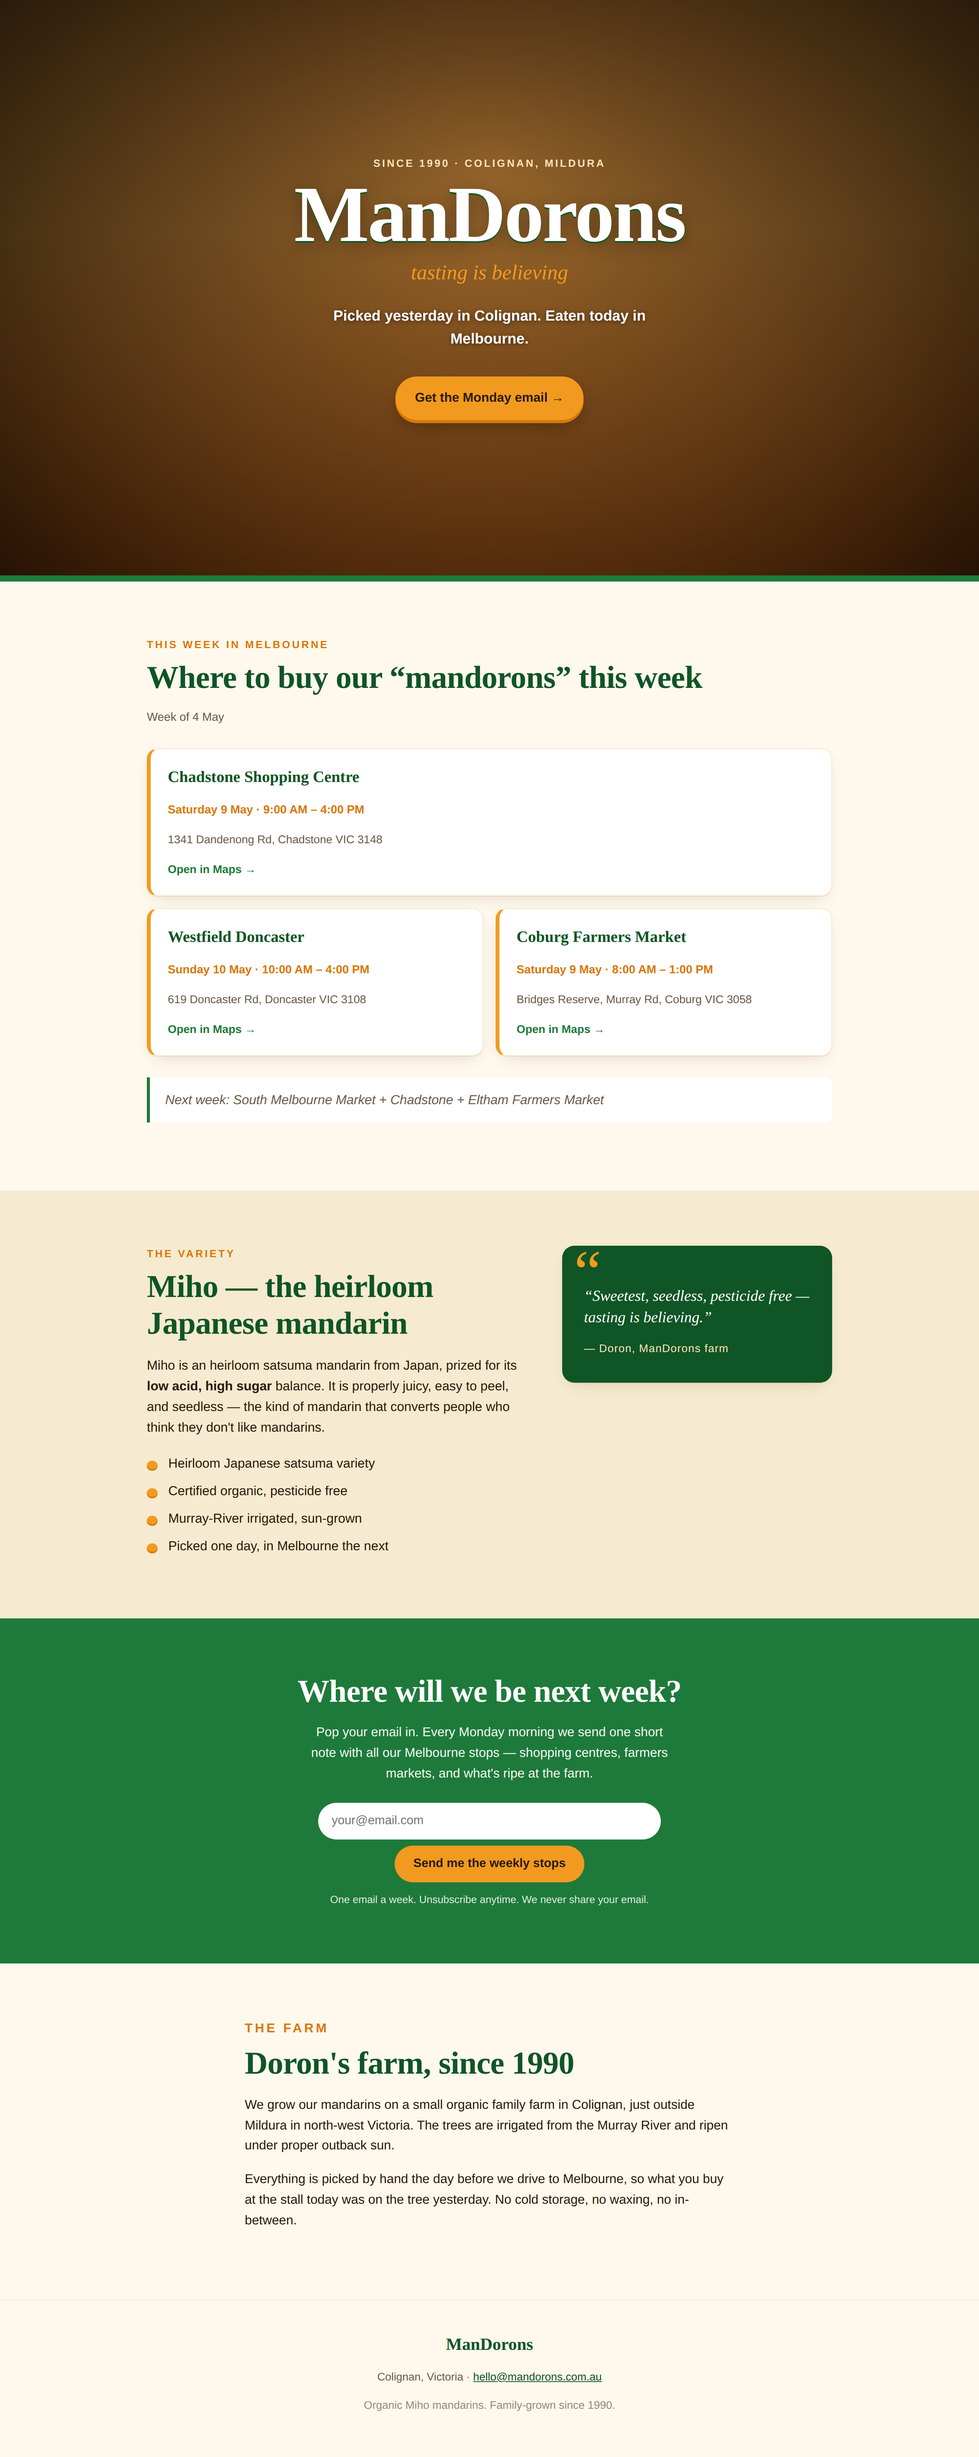
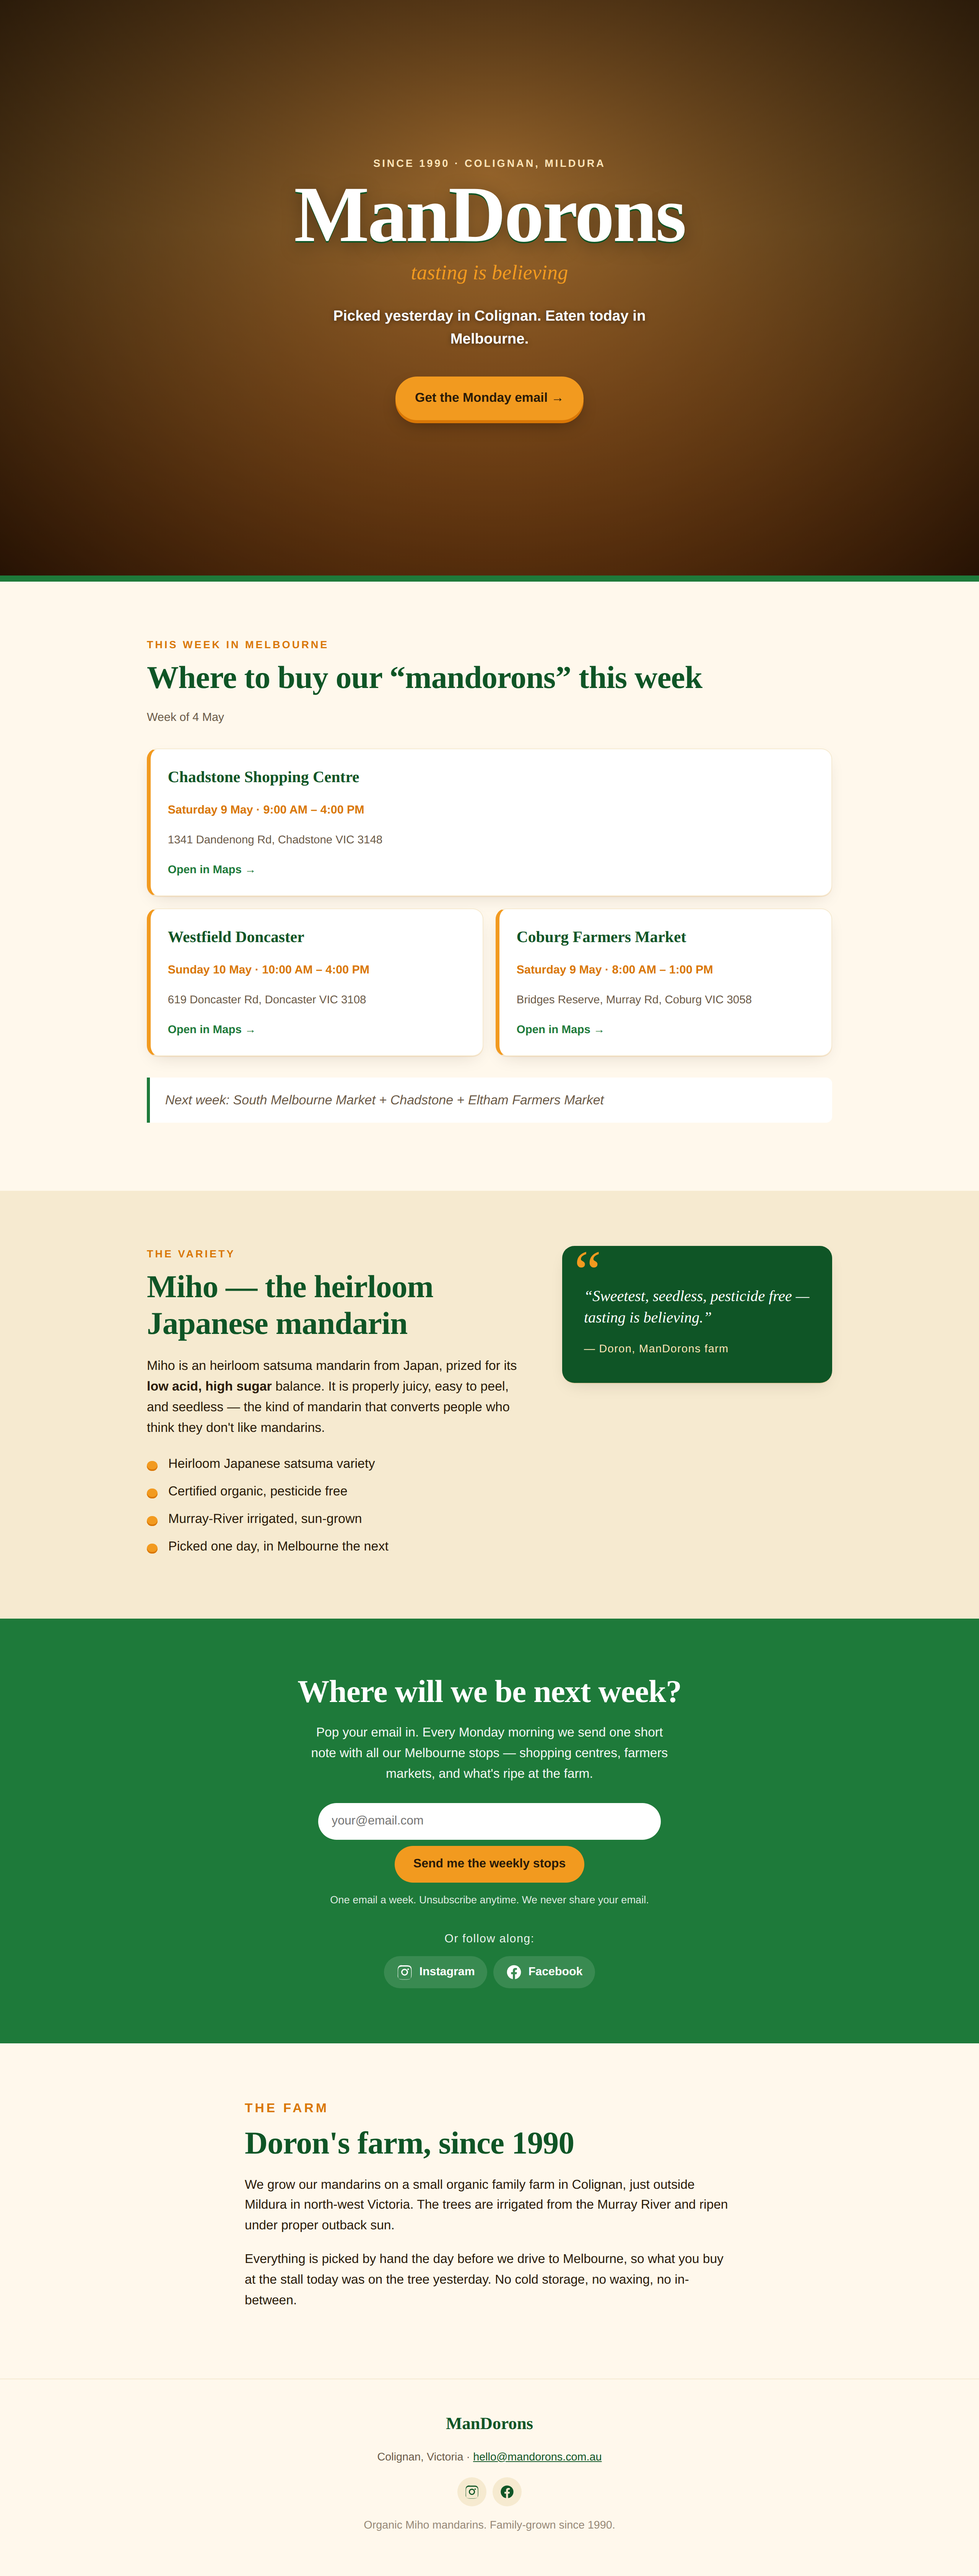
Add Instagram and Facebook links under signup and in footer
Pill-style buttons sit under the email form as a no-email alternative
("Or follow along") and reappear as small icon links in the footer.
Inline SVG icons keep the page request-free. Stub URLs use
instagram.com/mandorons and facebook.com/mandorons — replace with the
real handles when you have them.

https://claude.ai/code/session_01DrHGVFrWedQDMkFrRc2cos

Changed region(s): [[0.0, 0.218, 1.0, 0.9031], [0.3125, 0.0623, 0.7188, 0.1869], [0.375, 0.9343, 0.625, 0.9966]]

diff --git a/mandorons/index.html b/mandorons/index.html
@@ -137,6 +137,22 @@
         <button type="submit">Send me the weekly stops</button>
       </form>
       <p class="fineprint">One email a week. Unsubscribe anytime. We never share your email.</p>
+
+      <p class="signup-or">Or follow along:</p>
+      <ul class="socials" aria-label="Social media">
+        <li>
+          <a href="https://instagram.com/mandorons" target="_blank" rel="noopener" aria-label="ManDorons on Instagram">
+            <svg viewBox="0 0 24 24" width="22" height="22" aria-hidden="true"><path fill="currentColor" d="M12 2.2c3.2 0 3.6 0 4.8.1 1.2.1 1.8.2 2.2.4.6.2 1 .5 1.5 1s.8.9 1 1.5c.2.4.4 1 .4 2.2.1 1.2.1 1.6.1 4.8s0 3.6-.1 4.8c-.1 1.2-.2 1.8-.4 2.2-.2.6-.5 1-1 1.5s-.9.8-1.5 1c-.4.2-1 .4-2.2.4-1.2.1-1.6.1-4.8.1s-3.6 0-4.8-.1c-1.2-.1-1.8-.2-2.2-.4-.6-.2-1-.5-1.5-1s-.8-.9-1-1.5c-.2-.4-.4-1-.4-2.2C2.2 15.6 2.2 15.2 2.2 12s0-3.6.1-4.8c.1-1.2.2-1.8.4-2.2.2-.6.5-1 1-1.5s.9-.8 1.5-1c.4-.2 1-.4 2.2-.4C8.4 2.2 8.8 2.2 12 2.2zm0 1.8c-3.1 0-3.5 0-4.7.1-1.1.1-1.7.2-2.1.4-.5.2-.9.4-1.2.8-.4.4-.6.7-.8 1.2-.2.4-.3 1-.4 2.1-.1 1.2-.1 1.6-.1 4.7s0 3.5.1 4.7c.1 1.1.2 1.7.4 2.1.2.5.4.9.8 1.2.4.4.7.6 1.2.8.4.2 1 .3 2.1.4 1.2.1 1.6.1 4.7.1s3.5 0 4.7-.1c1.1-.1 1.7-.2 2.1-.4.5-.2.9-.4 1.2-.8.4-.4.6-.7.8-1.2.2-.4.3-1 .4-2.1.1-1.2.1-1.6.1-4.7s0-3.5-.1-4.7c-.1-1.1-.2-1.7-.4-2.1-.2-.5-.4-.9-.8-1.2-.4-.4-.7-.6-1.2-.8-.4-.2-1-.3-2.1-.4C15.5 4 15.1 4 12 4zm0 3.1a4.9 4.9 0 1 1 0 9.8 4.9 4.9 0 0 1 0-9.8zm0 1.8a3.1 3.1 0 1 0 0 6.2 3.1 3.1 0 0 0 0-6.2zm5.1-2.2a1.15 1.15 0 1 1 0 2.3 1.15 1.15 0 0 1 0-2.3z"/></svg>
+            <span>Instagram</span>
+          </a>
+        </li>
+        <li>
+          <a href="https://facebook.com/mandorons" target="_blank" rel="noopener" aria-label="ManDorons on Facebook">
+            <svg viewBox="0 0 24 24" width="22" height="22" aria-hidden="true"><path fill="currentColor" d="M22 12a10 10 0 1 0-11.6 9.9v-7H7.9V12h2.5V9.8c0-2.5 1.5-3.8 3.7-3.8 1.1 0 2.2.2 2.2.2v2.4h-1.2c-1.2 0-1.6.8-1.6 1.6V12h2.7l-.4 2.9h-2.3v7A10 10 0 0 0 22 12z"/></svg>
+            <span>Facebook</span>
+          </a>
+        </li>
+      </ul>
     </div>
   </section>
 
@@ -164,6 +180,10 @@
       Colignan, Victoria &middot;
       <a href="mailto:hello@mandorons.com.au">hello@mandorons.com.au</a>
     </p>
+    <ul class="socials foot-socials" aria-label="Social media">
+      <li><a href="https://instagram.com/mandorons" target="_blank" rel="noopener" aria-label="Instagram"><svg viewBox="0 0 24 24" width="20" height="20" aria-hidden="true"><path fill="currentColor" d="M12 2.2c3.2 0 3.6 0 4.8.1 1.2.1 1.8.2 2.2.4.6.2 1 .5 1.5 1s.8.9 1 1.5c.2.4.4 1 .4 2.2.1 1.2.1 1.6.1 4.8s0 3.6-.1 4.8c-.1 1.2-.2 1.8-.4 2.2-.2.6-.5 1-1 1.5s-.9.8-1.5 1c-.4.2-1 .4-2.2.4-1.2.1-1.6.1-4.8.1s-3.6 0-4.8-.1c-1.2-.1-1.8-.2-2.2-.4-.6-.2-1-.5-1.5-1s-.8-.9-1-1.5c-.2-.4-.4-1-.4-2.2C2.2 15.6 2.2 15.2 2.2 12s0-3.6.1-4.8c.1-1.2.2-1.8.4-2.2.2-.6.5-1 1-1.5s.9-.8 1.5-1c.4-.2 1-.4 2.2-.4C8.4 2.2 8.8 2.2 12 2.2zm0 1.8c-3.1 0-3.5 0-4.7.1-1.1.1-1.7.2-2.1.4-.5.2-.9.4-1.2.8-.4.4-.6.7-.8 1.2-.2.4-.3 1-.4 2.1-.1 1.2-.1 1.6-.1 4.7s0 3.5.1 4.7c.1 1.1.2 1.7.4 2.1.2.5.4.9.8 1.2.4.4.7.6 1.2.8.4.2 1 .3 2.1.4 1.2.1 1.6.1 4.7.1s3.5 0 4.7-.1c1.1-.1 1.7-.2 2.1-.4.5-.2.9-.4 1.2-.8.4-.4.6-.7.8-1.2.2-.4.3-1 .4-2.1.1-1.2.1-1.6.1-4.7s0-3.5-.1-4.7c-.1-1.1-.2-1.7-.4-2.1-.2-.5-.4-.9-.8-1.2-.4-.4-.7-.6-1.2-.8-.4-.2-1-.3-2.1-.4C15.5 4 15.1 4 12 4zm0 3.1a4.9 4.9 0 1 1 0 9.8 4.9 4.9 0 0 1 0-9.8zm0 1.8a3.1 3.1 0 1 0 0 6.2 3.1 3.1 0 0 0 0-6.2zm5.1-2.2a1.15 1.15 0 1 1 0 2.3 1.15 1.15 0 0 1 0-2.3z"/></svg></a></li>
+      <li><a href="https://facebook.com/mandorons" target="_blank" rel="noopener" aria-label="Facebook"><svg viewBox="0 0 24 24" width="20" height="20" aria-hidden="true"><path fill="currentColor" d="M22 12a10 10 0 1 0-11.6 9.9v-7H7.9V12h2.5V9.8c0-2.5 1.5-3.8 3.7-3.8 1.1 0 2.2.2 2.2.2v2.4h-1.2c-1.2 0-1.6.8-1.6 1.6V12h2.7l-.4 2.9h-2.3v7A10 10 0 0 0 22 12z"/></svg></a></li>
+    </ul>
     <p class="foot-fine">Organic Miho mandarins. Family-grown since 1990.</p>
   </footer>
 

diff --git a/mandorons/styles.css b/mandorons/styles.css
@@ -330,6 +330,55 @@ h2 {
   margin: 0.5rem 0 0;
 }
 
+.signup-or {
+  margin: 1.75rem 0 0.6rem;
+  font-size: 0.95rem;
+  opacity: 0.9;
+  letter-spacing: 0.05em;
+}
+
+.socials {
+  list-style: none;
+  padding: 0;
+  margin: 0;
+  display: flex;
+  gap: 0.5rem;
+  justify-content: center;
+  flex-wrap: wrap;
+}
+.socials a {
+  display: inline-flex;
+  align-items: center;
+  gap: 0.5rem;
+  padding: 0.55rem 1rem;
+  border-radius: 999px;
+  background: rgba(255,255,255,0.12);
+  color: #fff;
+  text-decoration: none;
+  font-weight: 600;
+  font-size: 0.95rem;
+  transition: background 0.12s ease, transform 0.12s ease;
+}
+.socials a:hover {
+  background: var(--orange);
+  color: var(--ink);
+  transform: translateY(-1px);
+}
+.socials svg { display: block; }
+
+.foot-socials {
+  margin: 0.9rem 0;
+}
+.foot-socials a {
+  background: var(--cream-deep);
+  color: var(--green-deep);
+  padding: 0.55rem;
+}
+.foot-socials a:hover {
+  background: var(--orange);
+  color: var(--ink);
+}
+
 /* FARM ====================================================================== */
 .farm { background: var(--cream); }
 .farm p { font-size: 1.05rem; }
